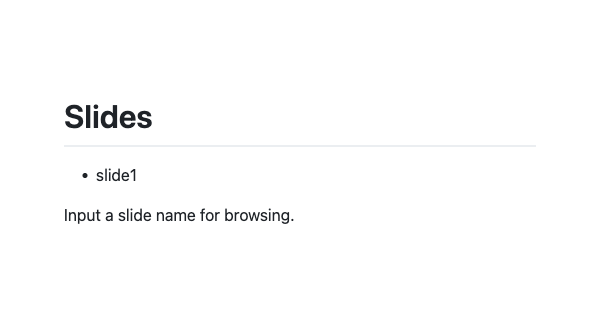
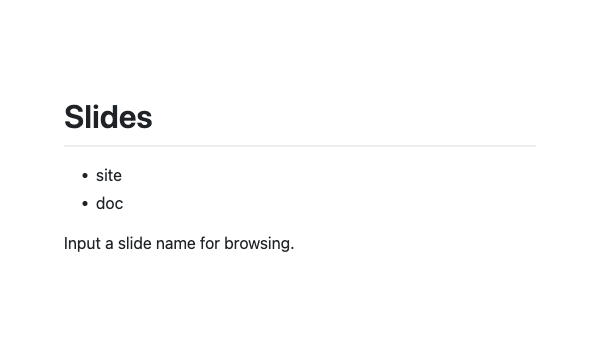
documentation

Changed region(s): [[0.09, 0.6502, 0.51, 0.7121], [0.09, 0.2786, 0.27, 0.4025], [0.12, 0.4644, 0.24, 0.6192]]

diff --git a/README.md b/README.md
@@ -1,6 +1,54 @@
-```
-npm install
-npm run dev
+# A Farcaster Frame Starter For Slides
+
+## What
+
+With this starter, you can create a frame for slides on Farcaster in one minute.
+
+The sweeter thing is you can use markdown and no need to touch any code for frame.
+
+## How
+
+This is how:
+
+1. create a direct for your new slides in `contents`.
+1. write the slides in markdown.
+1. `pnpm convert`
+1. review it locally with `pnpm dev`
+1. publish it on vercel with `pnpm deploy`
+
+Done!
+
+### Known Issues
+
+Using relative paths for images in slides won't generate the final images for the sliedes correctly.
+
+But you can start a local http server for a workaround. See the example in [this example](contents/doc/01-what.md):
+
+```markdown
+![content-org](http://localhost:9000/contents/doc/content-org.png)
 ```
 
-Head to http://localhost:5173/api
+To setup a local http server:
+
+```shell
+python3 -m http.server 9000
+```
+
+## The Frames Site
+
+The default site generated is organized as below:
+
+1. `/` is the index of the whole site.
+1. `/submit` is the target frame for the `Go` button.
+1. `/:slide` presents the selected `slide` in a frame. The value of `slide` is one of the names of the subdirectories in `contents`.
+
+## Customization
+
+This starter is using [mdimg](https://github.com/LolipopJ/mdimg) and the site builder is in [convert.ts](./scripts/convert.ts). So:
+
+- for style, read `mdimg` document.
+- for generation, change `convert.ts` and update `/api/index.tsx`.
+
+## Showcase
+
+Read this document in [this frame]().

diff --git a/contents/site/01-site-org.md b/contents/site/01-site-org.md
@@ -1,0 +1,7 @@
+# Urls
+
+The default site generated is organized as below:
+
+1. `/` is the index of the whole site.
+1. `/submit` is the target frame for the `Go` button.
+1. `/:slide` presents the selected `slide` in a frame. The value of `slide` is one of the names of the subdirectories in `contents`.

diff --git a/contents/doc/03-known-issues.md b/contents/doc/03-known-issues.md
@@ -1,0 +1,15 @@
+## Known Issues
+
+To generate the images in markdown correctly:
+
+1. start a local http server:
+
+```shell
+python3 -m http.server 9000
+```
+
+2. use it in markdown files:
+
+```markdown
+![content-org](http://localhost:9000/contents/doc/content-org.png)
+```

diff --git a/contents/site/02-customization.md b/contents/site/02-customization.md
@@ -1,0 +1,6 @@
+# Customization
+
+This starter is using [mdimg](https://github.com/LolipopJ/mdimg) and the site builder is in [convert.ts](./scripts/convert.ts). So:
+
+- for style, read `mdimg` document.
+- for generation, change `convert.ts` and update `/api/index.tsx`.

diff --git a/contents/doc/02-how.md b/contents/doc/02-how.md
@@ -1,0 +1,9 @@
+# How
+
+The steps:
+
+1. create a direct for your new slides in `contents`.
+1. write the slides in markdown.
+1. `pnpm convert`
+1. review it locally with `pnpm dev`
+1. publish it on vercel with `pnpm deploy`

diff --git a/contents/doc/01-what.md b/contents/doc/01-what.md
@@ -1,0 +1,8 @@
+# What
+
+With this starter, you can:
+
+1. create a farcaster frame for slides.
+1. write the slides in markdown, for example:
+
+![content-org](http://localhost:9000/contents/doc/content-org.png)
